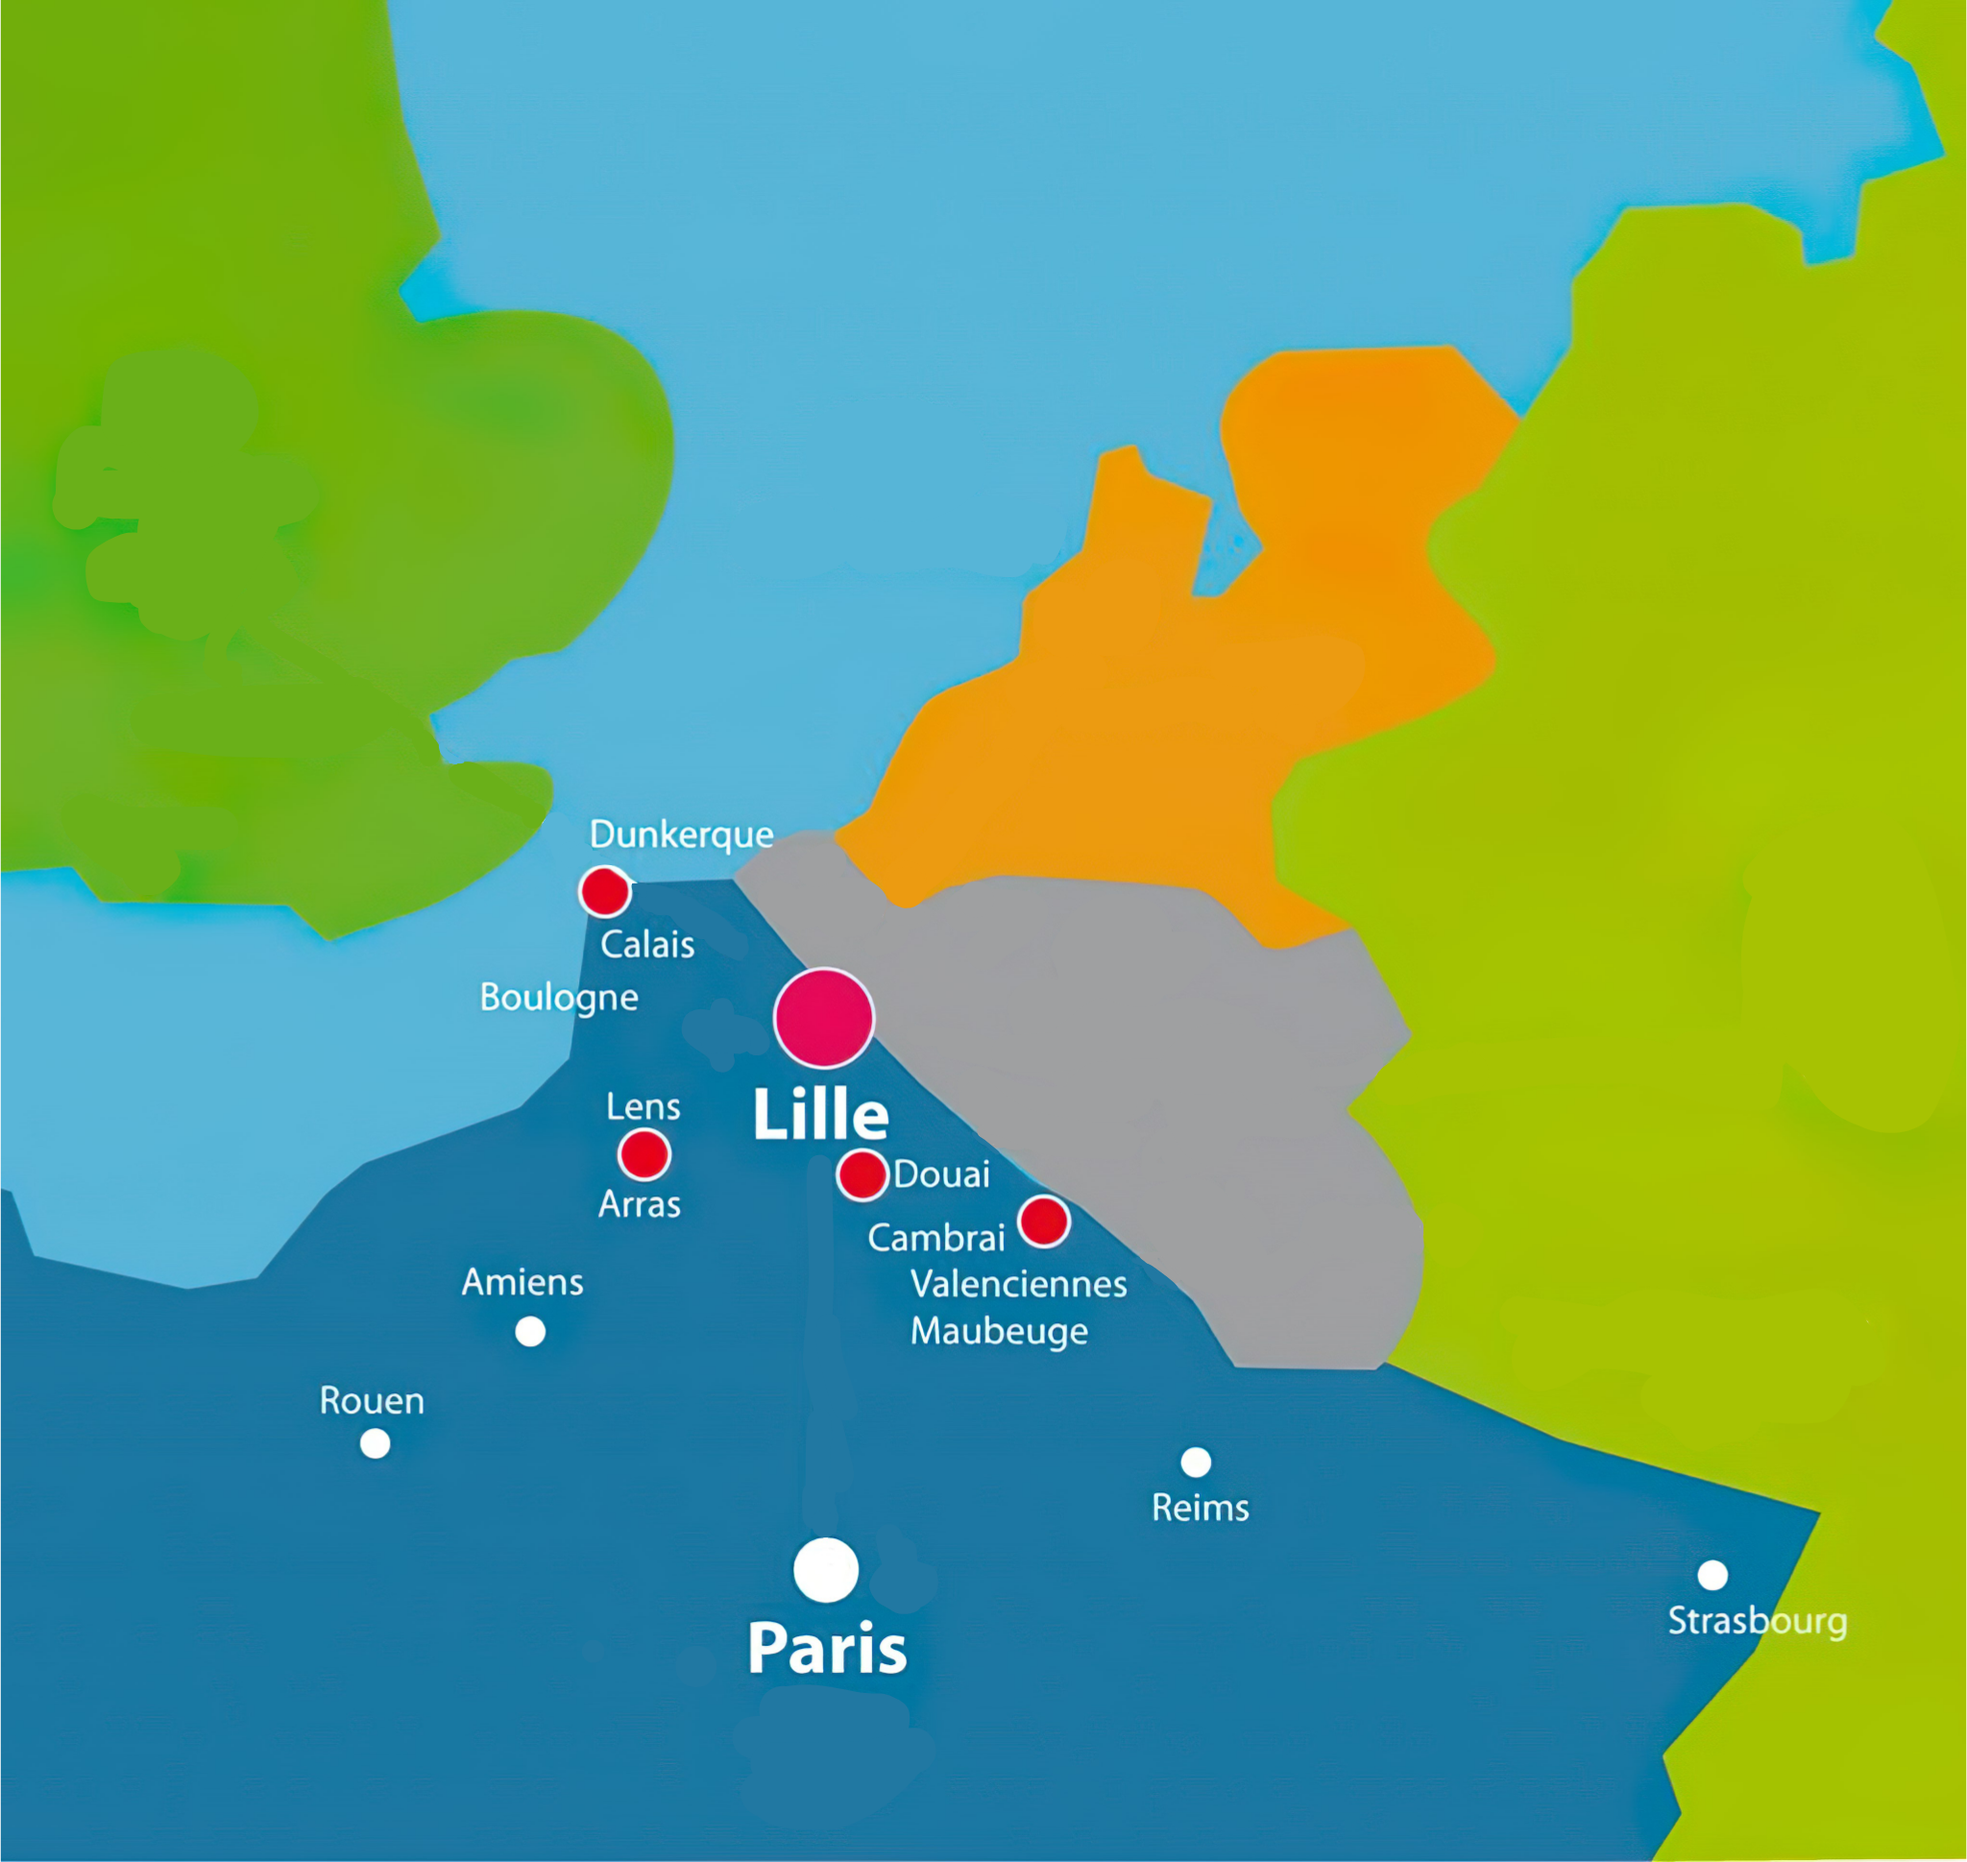
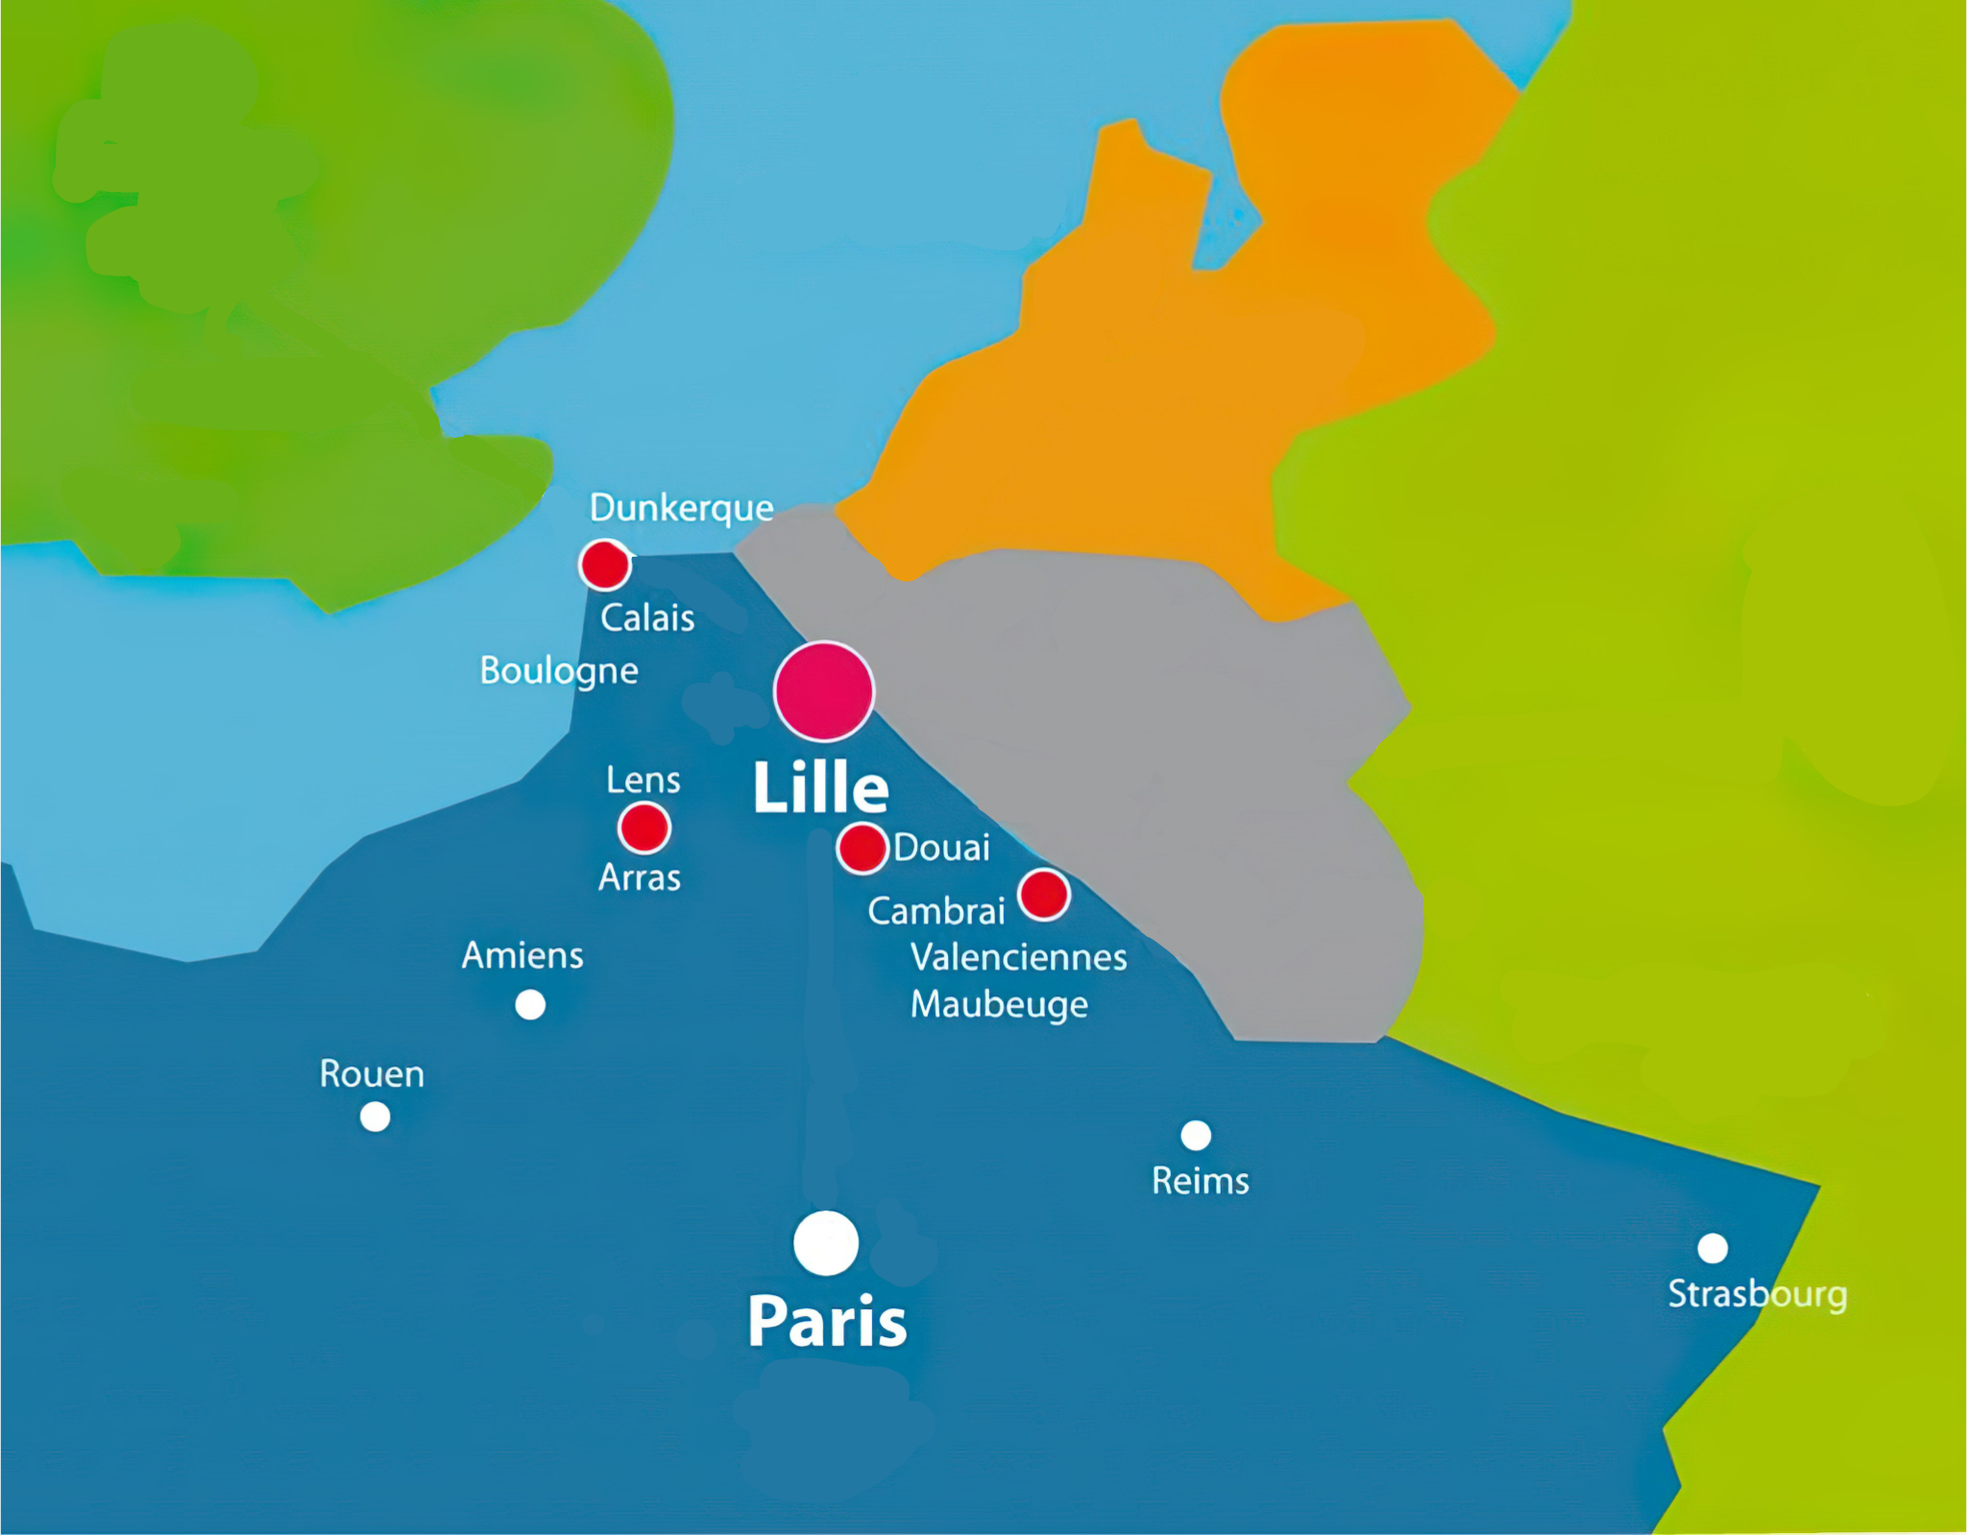
feat:modify image map size

diff --git a/style.css b/style.css
@@ -1,14 +1,24 @@
-body {
+* {
   font-family: Arial, sans-serif;
   margin: 0;
   padding: 0;
 }
 
+body{
+  background-color: black;
+}
+
 .map-container {
-  width: 100%;
-  height: 400px;
-  background-image: url("france-map.jpg");
-  background-size: cover;
+  width: 90rem;
+  height: 90rem;
+  background-image: url('assets/france_map.png'); 
+  background-size: contain; 
+  background-repeat: no-repeat; 
+}
+.map-container img {
+  display: flex;
+  align-items: center;
+  justify-content: center;
 }
 
 .profile {

diff --git a/index.html b/index.html
@@ -4,11 +4,12 @@
     <meta charset="UTF-8">
     <meta name="viewport" content="width=device-width, initial-scale=1.0">
     <title>Trombinoscope P4</title>
-    <link rel="stylesheet" href="styles.css">
+    <link rel="stylesheet" href="style.css">
 </head>
 <body>
     <div class="map-container">
         <!-- La carte -->
+        <!-- <img src="assets/france_map.png" alt=""> -->
     </div>
     <div class="profile">
         <!-- Les informations sur un profil -->
